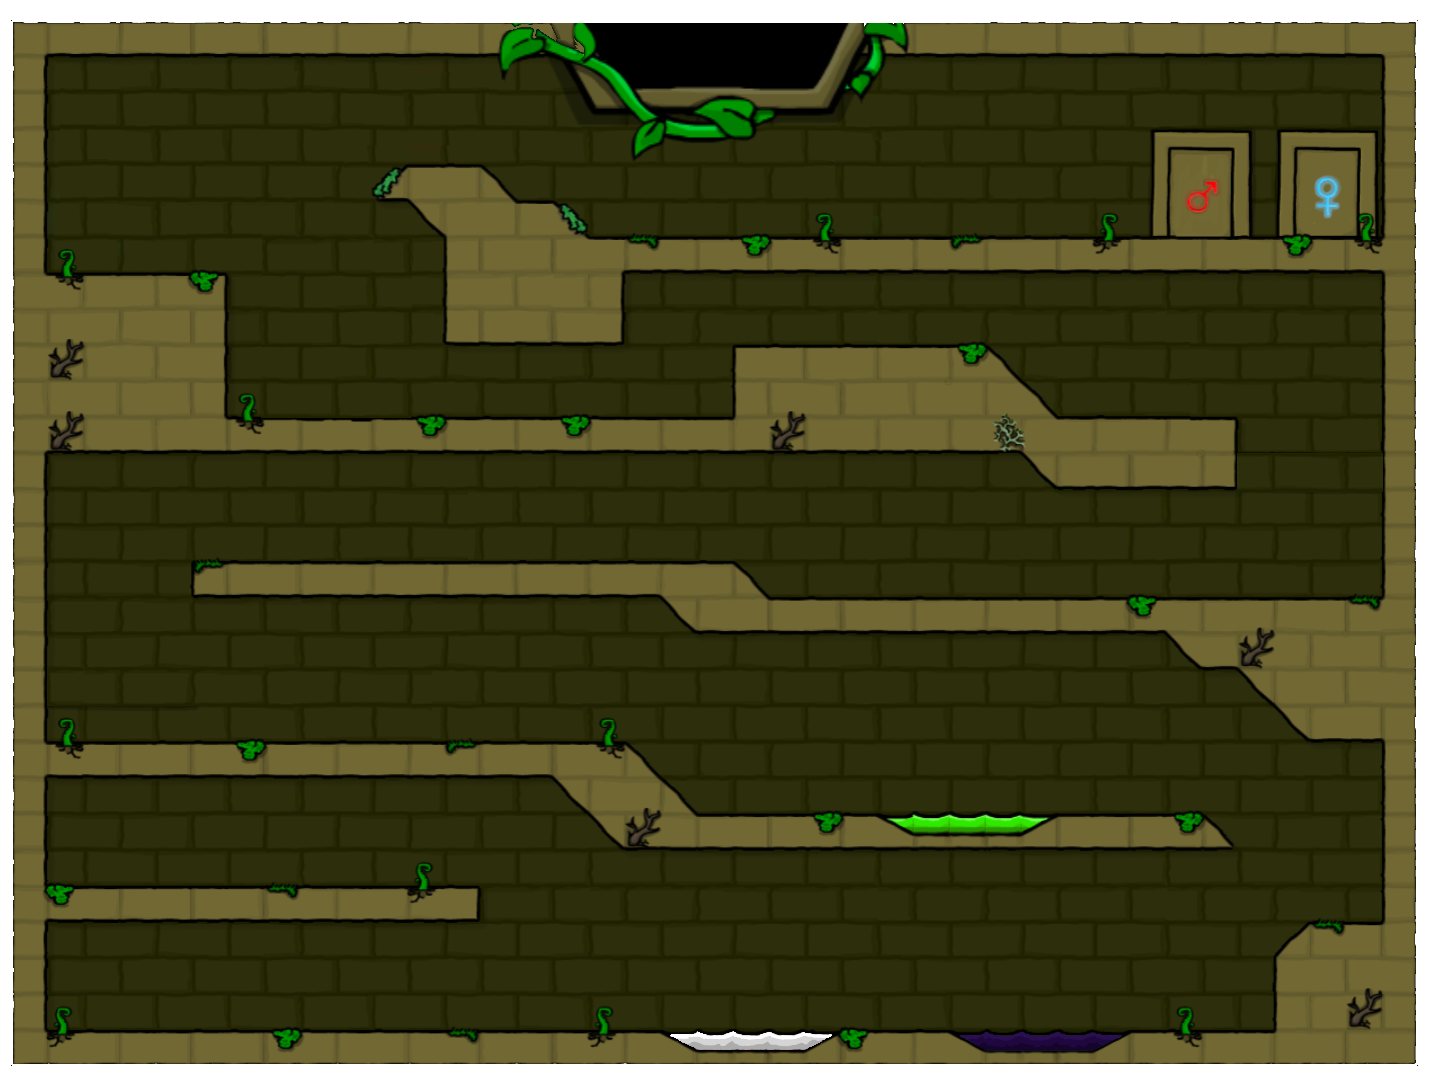
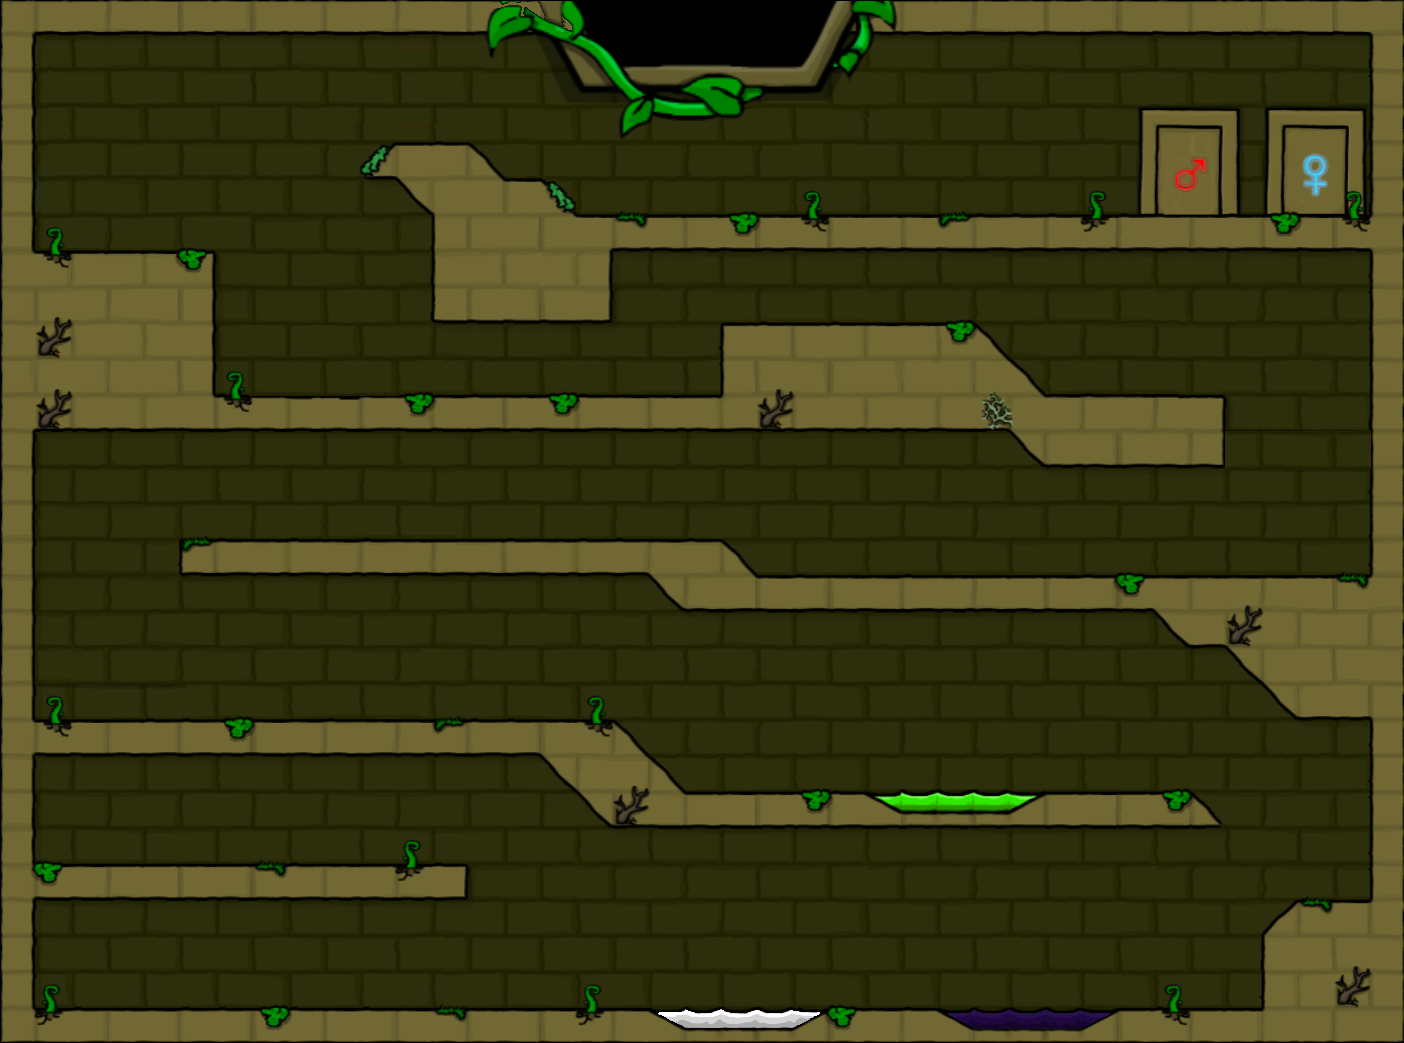
Level class added + background for lvl1

diff --git a/FYP/FYP/src/Game.cpp b/FYP/FYP/src/Game.cpp
@@ -27,7 +27,9 @@ Game::Game()
 
 	debugDraw.setWorld(world);
 
-	lightPlayer = new Player(world, sf::Vector2f(0.5f, -2.0f), sf::Vector2f(0.1f, 0.6f), 0.f, 0x0100, sf::Color::White);
+	currLevel = new Lvl1(texManager, world);
+
+	/*lightPlayer = new Player(world, sf::Vector2f(0.5f, -2.0f), sf::Vector2f(0.1f, 0.6f), 0.f, 0x0100, sf::Color::White);
 	darkPlayer = new Player(world, sf::Vector2f(1.f, -2.0f), sf::Vector2f(0.1f, 0.6f), 0.f, 0x0010, sf::Color::Black);
 	platform[0] = new PlatTemp(world, sf::Vector2f(0.0f, 1.0f), sf::Vector2f(5.0f, 0.5f), 0.f);
 	darkHazards[0] = new Hazard(world, sf::Vector2f(-1.f, -1.f), sf::Vector2f(0.25f, 0.25f), 0.f, 0x0100, sf::Color::Black);
@@ -41,7 +43,7 @@ Game::Game()
 	move = new MovingPlat(world, sf::Vector2f(1.5f, 0.f), sf::Vector2f(0.5f, 0.1f), 0.f, sf::Vector2f(1.5f, -1.f));
 	button = new Lever(world, sf::Vector2f(1.5f, 0.75f), sf::Vector2f(0.25f, 0.25f), move, false);
 
-	tilt = new TiltingPlat(world, sf::Vector2f(-0.5, 0.6f), sf::Vector2f(1.f, 0.01f), sf::Vector2f(0.f, 0.f), 0.f, sf::Color::Cyan);
+	tilt = new TiltingPlat(world, sf::Vector2f(-0.5, 0.6f), sf::Vector2f(1.f, 0.01f), sf::Vector2f(0.f, 0.f), 0.f, sf::Color::Cyan);*/
 
 	debug = false;
 	lightRight = false;
@@ -51,7 +53,7 @@ Game::Game()
 
 
 	//// USER DATA ////
-	lightPlayer->setUserData(new std::pair<std::string, void *>(typeid(decltype(*lightPlayer)).name(), lightPlayer));
+	/*lightPlayer->setUserData(new std::pair<std::string, void *>(typeid(decltype(*lightPlayer)).name(), lightPlayer));
 	darkPlayer->setUserData(new std::pair<std::string, void *>(typeid(decltype(*darkPlayer)).name(), darkPlayer));
 
 	door->setUserData(new std::pair<std::string, void *>(typeid(decltype(*door)).name(), door));
@@ -67,7 +69,7 @@ Game::Game()
 
 	for (PickUp *item : lightPickUps) item->setUserData(item);
 
-	for (Block *block : blocks) block->setUserData(new std::pair<std::string, void *>(typeid(decltype(*block)).name(), block));
+	for (Block *block : blocks) block->setUserData(new std::pair<std::string, void *>(typeid(decltype(*block)).name(), block));*/
 }
 
 Game::~Game()
@@ -76,7 +78,7 @@ Game::~Game()
 	delete world;
 	world = nullptr;
 
-	delete lightPlayer;
+	/*delete lightPlayer;
 	lightPlayer = nullptr;
 	delete darkPlayer;
 	darkPlayer = nullptr;
@@ -119,7 +121,12 @@ Game::~Game()
 	{
 		delete block;
 		block = nullptr;
-	}
+	}*/
+
+	delete currLevel;
+	currLevel = nullptr;
+
+	TextureManager::delInstance();
 }
 
 void Game::update(float timestep)
@@ -128,7 +135,7 @@ void Game::update(float timestep)
 	world->Step(timestep, velIterations, posIterations);
 
 	// Update each dyanmic element - effectively update render information
-	lightPlayer->update(timestep);
+	/*lightPlayer->update(timestep);
 	darkPlayer->update(timestep);
 	door->update(timestep);
 	move->update(timestep);
@@ -157,18 +164,20 @@ void Game::update(float timestep)
 			}
 		}
 		i++;
-	}
+	}*/
 
+	currLevel->update(timestep);
 	// Delete debug shapes
 	if (debug) debugDraw.clear();
 }
 
 void Game::draw(sf::RenderTarget &target, sf::RenderStates states) const
 {
+	currLevel->draw(target, sf::RenderStates::Default);
 	// Set the view
 	target.setView(view);
 
-	target.draw(*lightPlayer);
+	/*target.draw(*lightPlayer);
 	target.draw(*darkPlayer);
 	for (PlatTemp *plat : platform) target.draw(*plat);
 	for (Hazard *hazard : darkHazards) target.draw(*hazard);
@@ -185,7 +194,7 @@ void Game::draw(sf::RenderTarget &target, sf::RenderStates states) const
 	target.draw(*door);
 	target.draw(*button);
 	target.draw(*move);
-	target.draw(*tilt);
+	target.draw(*tilt);*/
 
 	// Debug Draw
 	if (debug) target.draw(debugDraw);
@@ -198,7 +207,7 @@ void Game::processKeyPress(sf::Keyboard::Key code)
 	case sf::Keyboard::Tab:
 		toggleDebug();
 		break;
-	case sf::Keyboard::D:
+	/*case sf::Keyboard::D:
 		lightRight = true;
 		break;
 	case sf::Keyboard::A:
@@ -215,7 +224,7 @@ void Game::processKeyPress(sf::Keyboard::Key code)
 		break;
 	case sf::Keyboard::Up:
 		darkPlayer->jump();
-		break;
+		break;*/
 	}
 
 }

diff --git a/FYP/FYP/include/Game.h b/FYP/FYP/include/Game.h
@@ -11,17 +11,7 @@
 
 #include "SFMLDebugDraw.h"
 #include "ContactListener.h"
-#include "PlatTemp.h"
-#include "Player.h"
-#include "Hazard.h"
-#include "DoorPlat.h"
-#include "MovingPlat.h"
-#include "TiltingPlat.h"
-#include "Button.h"
-#include "Lever.h"
-#include "PickUp.h"
-#include "Block.h"
-#include "TextureManager.h"
+#include "Lvl1.h"
 #include <memory>
 
 
@@ -29,7 +19,7 @@ class Game : public sf::Drawable
 {
 private:
 	sf::View view; //!< The view maps from physical co-ordinates to rendering co-ordinates
-	sf::Vector2f worldSize = sf::Vector2f(8.f, 6.f); //!< Size of the physical worlds is 8 X 6 metres
+	sf::Vector2f worldSize = sf::Vector2f(8.f, 8.f); //!< Size of the physical worlds is 8 X 6 metres
 
 	b2World* world = nullptr; //!< Pointer to the Box2D world.  Using pointers as BOX2D has it's own memory management
 	const int velIterations = 7; //!< On each update there will be 7 velocity iterations in the physics engine
@@ -39,7 +29,7 @@ private:
 	bool debug; //!< Toggle for debug drawing
 	SFMLDebugDraw debugDraw; //!< Box2D debug drawing
 
-	PlatTemp *platform[1];		//!< Array of platforms
+	/*PlatTemp *platform[1];		//!< Array of platforms
 	Hazard *darkHazards[1];		//!< Array of hazards to the dark player
 	Hazard *lightHazards[1];	//!< Array of hazards to the light player
 	Hazard *bothHazards[1];		//!< Array of hazards to both players
@@ -51,7 +41,9 @@ private:
 	TiltingPlat *tilt;
 
 	Player *lightPlayer;		//!< The light player
-	Player *darkPlayer;			//!< The dark player
+	Player *darkPlayer;			//!< The dark player*/
+
+	Lvl1 *currLevel;
 
 	bool lightRight;	//!< If light player should be moving right
 	bool lightLeft;		//!< If light player should be moving left

diff --git a/FYP/FYP/include/Lvl1.h b/FYP/FYP/include/Lvl1.h
@@ -1,0 +1,34 @@
+#pragma once
+/*!
+\file Lvl1.h
+*/
+
+#include "Level.h"
+
+/*! \class Level
+\brief First level of the game
+*/
+class Lvl1 : public Level
+{
+protected:
+	Player *lightPlayer;		//!< The light player
+	Player *darkPlayer;			//!< The dark player
+
+	Hazard *lightHazard;		//!< Hazards to light player
+	Hazard *darkHazard;			//!< Hazards to dark player
+	Hazard *bothHAzard;			//!< Hazards to both players
+
+	PickUp *lightPickUp[3];		//!< Array of light pickups
+	PickUp *darkPickUp[3];		//!< Array of dark pickups
+
+	Block *block;				//!< Movable block
+
+	Floor *floor;				//!< Floor of the game
+	b2Vec2 *outline[15];		//!< Array of floor outline vectors
+
+public:
+	Lvl1(TextureManager * textMan, b2World * world);		//!< Constructor
+	virtual ~Lvl1() override;		//!< Deconstructor
+	virtual void update(float timestep) override;		//!< Updates all game elements
+	virtual void draw(sf::RenderTarget &target, sf::RenderStates states) const override;		//!< Draws all game elements
+};

diff --git a/FYP/FYP/src/Texture.cpp b/FYP/FYP/src/Texture.cpp
@@ -55,6 +55,7 @@ void Texture::setFlip(bool Flip)
 void Texture::setSpriteSheet(std::shared_ptr<sf::Texture> tex)
 {
 	spriteSheet = tex;
+	//std::cout << "SET: " << spriteSheet << std::endl;
 }
 
 void Texture::setKeyFrames(std::vector<sf::IntRect> frams, float time)
@@ -91,7 +92,10 @@ void Texture::update(float timestep)
 	else if (background)
 	{
 		currSprite.setTexture(*spriteSheet, true);
-		currSprite.setScale(sf::Vector2f(0.01f, 0.01f));
+		currSprite.setOrigin(currSprite.getTexture()->getSize().x / 2, currSprite.getTexture()->getSize().y / 2);
+		currSprite.setPosition(0.f, 0.f);
+		//std::cout << "SPRITESHEET: " << spriteSheet << std::endl;
+		currSprite.setScale(sf::Vector2f(0.00575f, 0.00775f));
 	}
 }
 
@@ -107,5 +111,6 @@ void Texture::setSize(sf::Vector2f(size))
 
 void Texture::draw(sf::RenderTarget &target, sf::RenderStates states) const
 {
+	std::cout << "DRAWING: " << currSprite.getTexture() << std::endl;
 	target.draw(currSprite, states);
 }

diff --git a/FYP/FYP/src/Lvl1.cpp b/FYP/FYP/src/Lvl1.cpp
@@ -1,0 +1,21 @@
+#include "Lvl1.h"
+
+Lvl1::Lvl1(TextureManager * textMan, b2World * world)
+{
+	textMan->setTexture("lvl1", this);
+	setBg();
+}
+
+Lvl1::~Lvl1()
+{
+}
+
+void Lvl1::update(float timestep)
+{
+	Texture::update(timestep);
+}
+
+void Lvl1::draw(sf::RenderTarget & target, sf::RenderStates states) const
+{
+	target.draw(currSprite, states);
+}

diff --git a/FYP/FYP/src/TextureManager.cpp b/FYP/FYP/src/TextureManager.cpp
@@ -23,6 +23,7 @@ std::shared_ptr<sf::Texture> TextureManager::getTexture(std::string keyName)
 
 void TextureManager::setTexture(std::string keyName, Texture * target)
 {
+	//std::cout << "PASSED: " << spritesheets[keyName] << std::endl;
 	target->setSpriteSheet(spritesheets[keyName]);
 }
 

diff --git a/FYP/FYP/include/Level.h b/FYP/FYP/include/Level.h
@@ -18,6 +18,7 @@
 #include "Lever.h"
 #include "PickUp.h"
 #include "Block.h"
+#include "Floor.h"
 #include "TextureManager.h"
 
 
